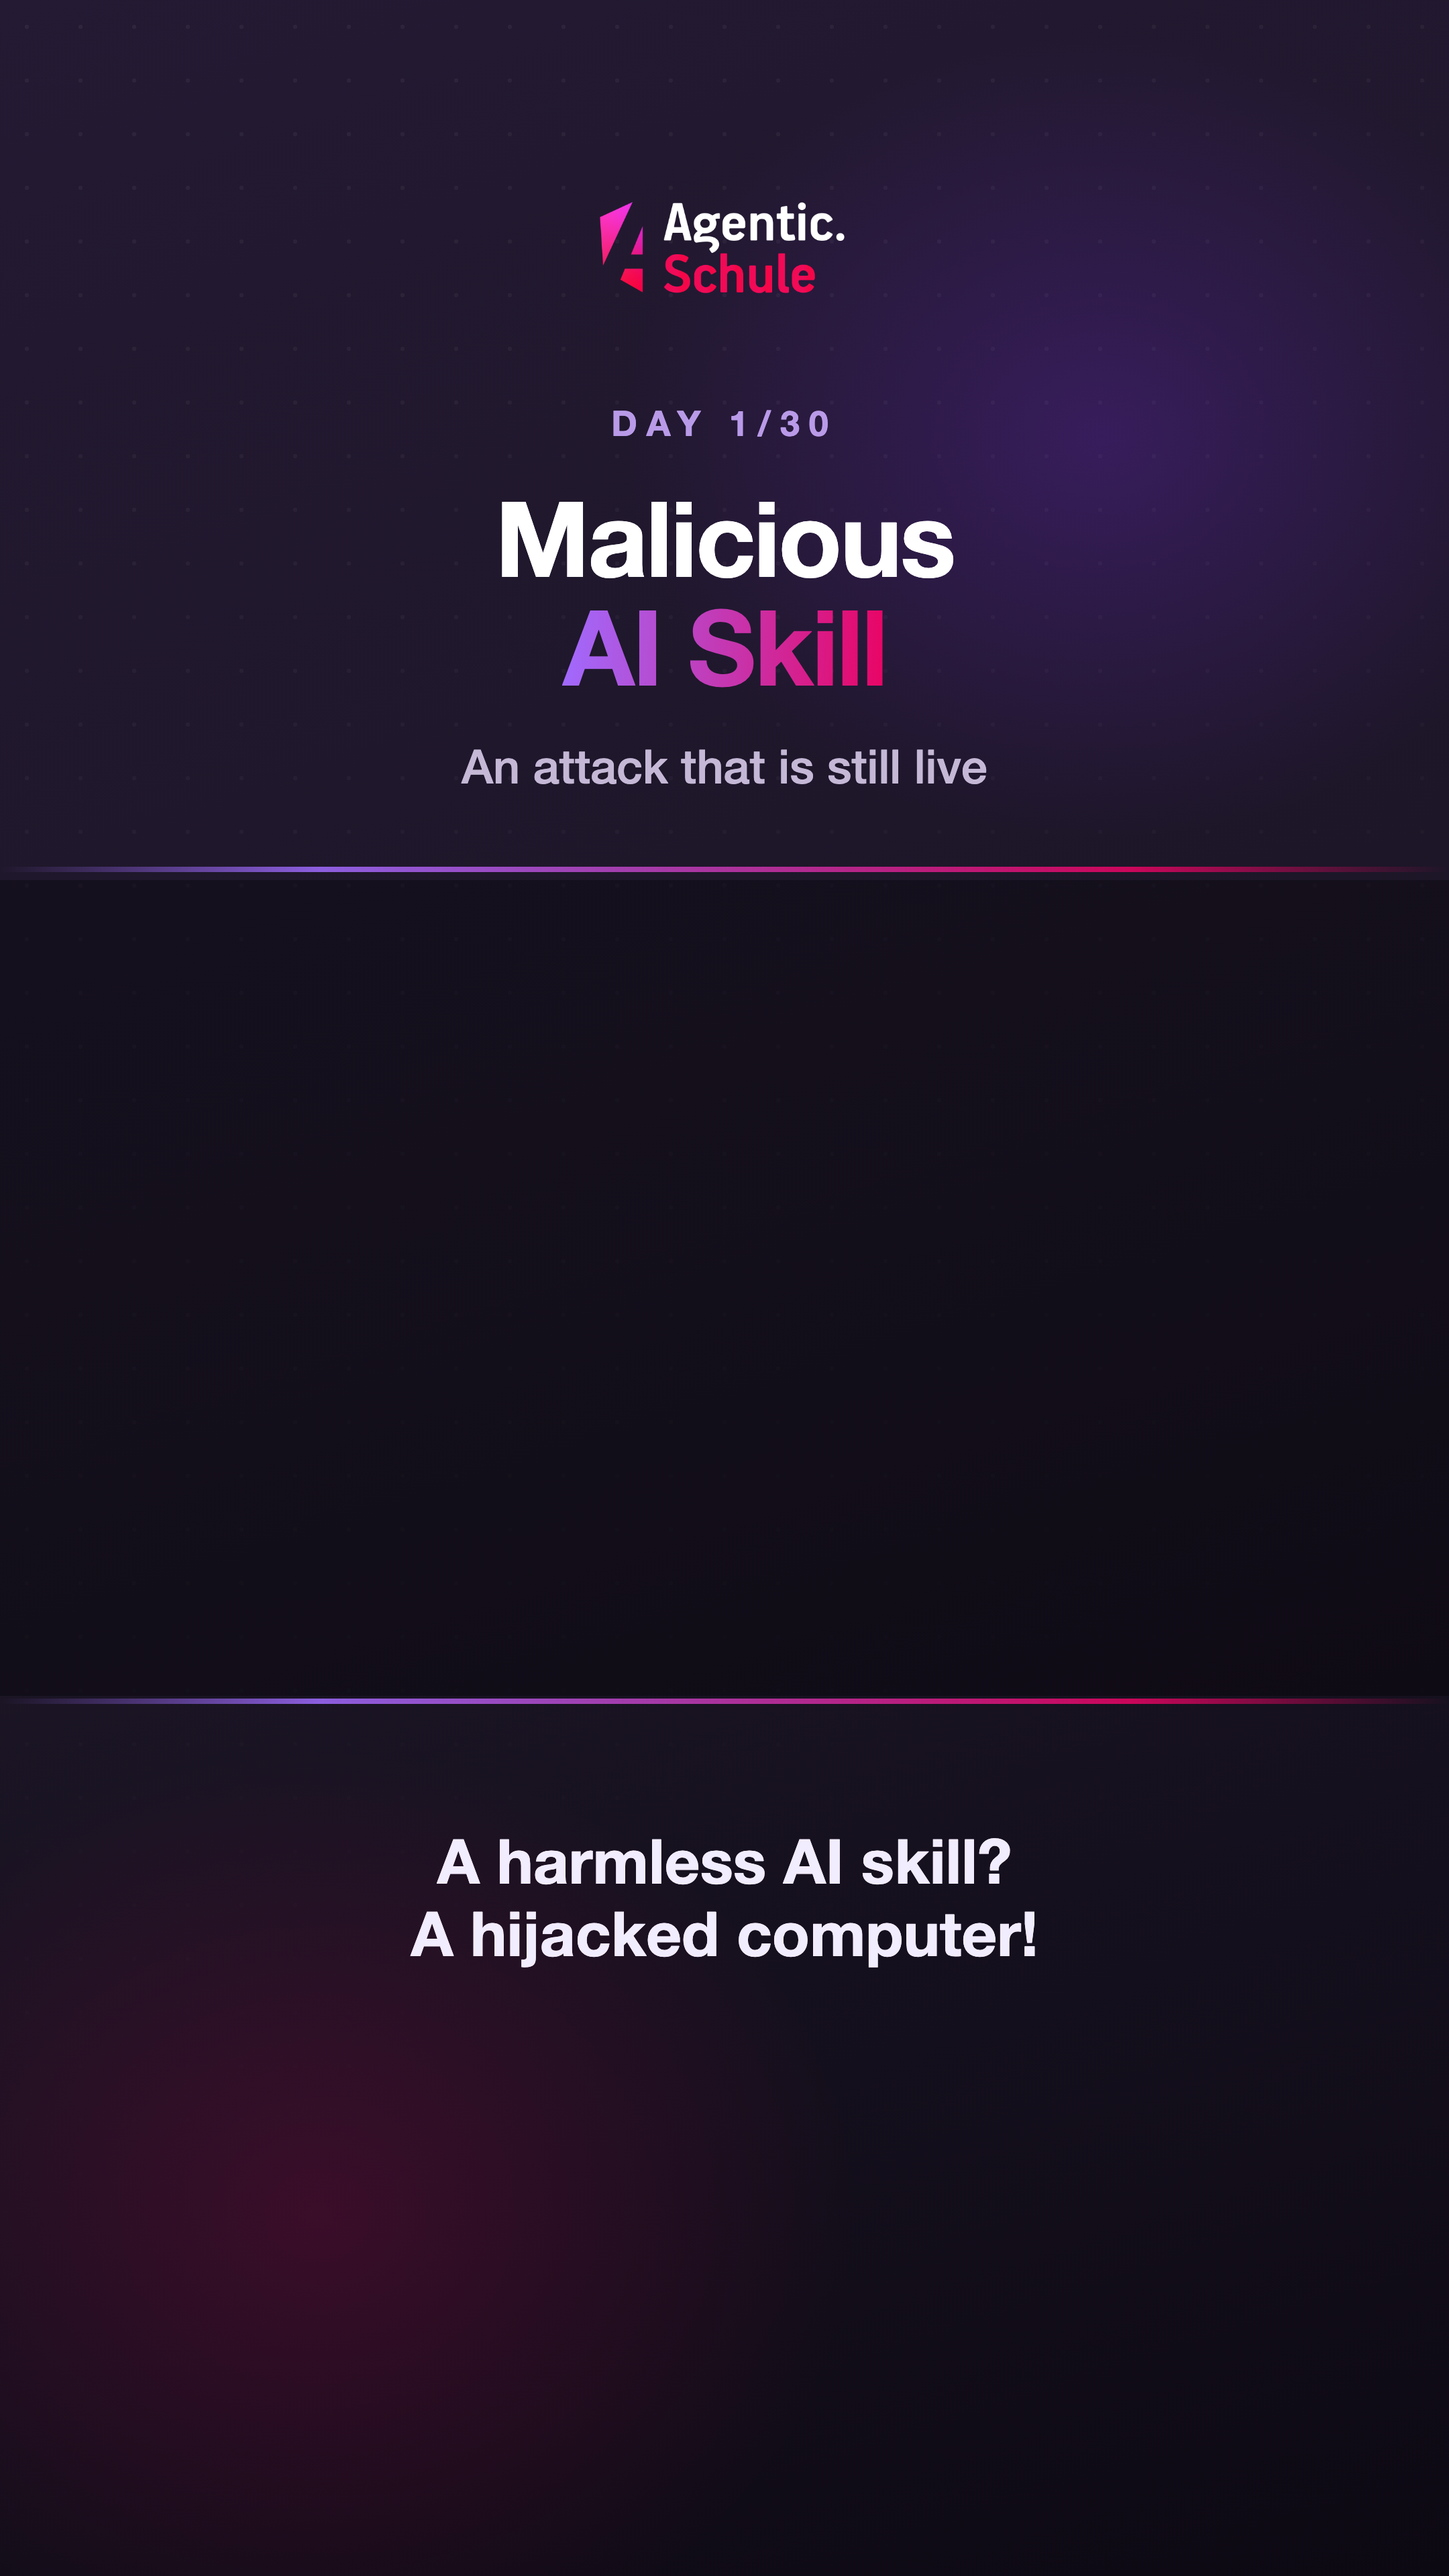
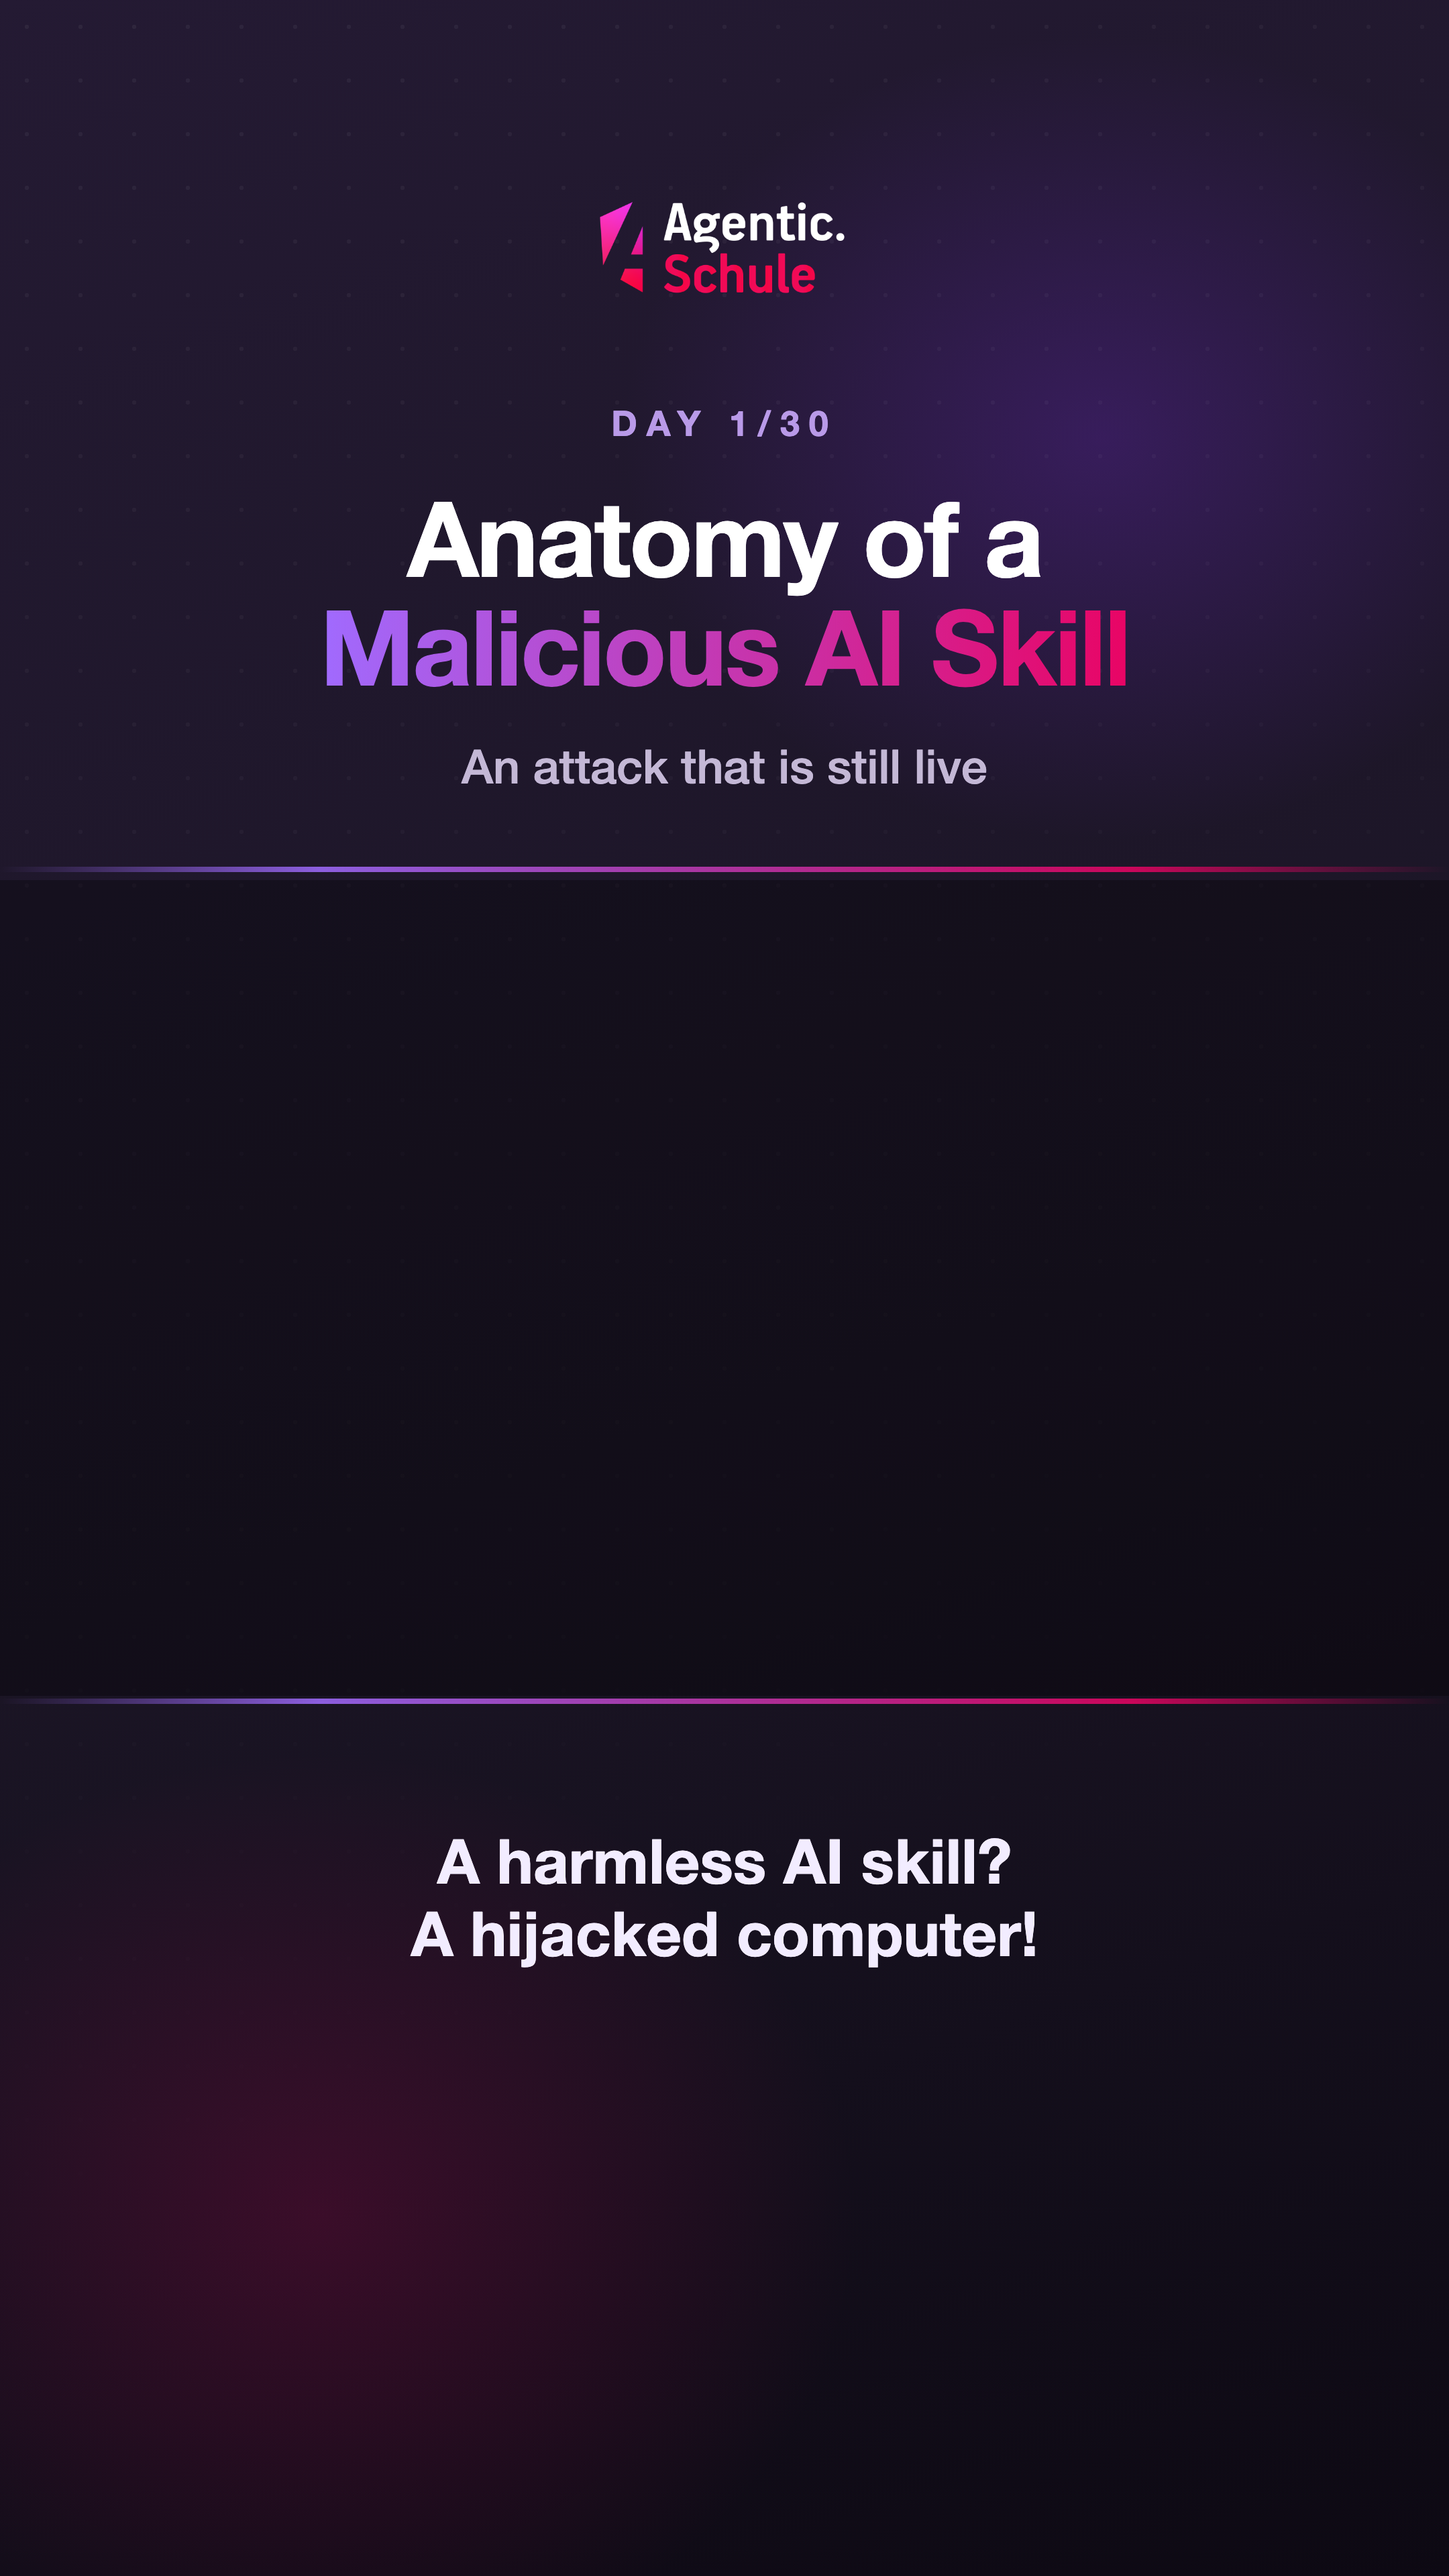
Reel Tag 1: volle Überschrift „Anatomy of a Malicious AI Skill" statt der Kurzform (#26)
Die Reel-Kurzform „Malicious AI Skill" war als Titel zu flach. Der Reel-Header
trägt jetzt denselben vollen, tragenden Titel wie Artikel und Lese-Banner.

Changed region(s): [[0.2171, 0.1875, 0.7755, 0.2812]]

diff --git a/blog/2026-09-boeswillige-skills-EN/header-reel.src.html b/blog/2026-09-boeswillige-skills-EN/header-reel.src.html
@@ -40,7 +40,7 @@
   <img class="logo" src="logo-agentic-schule.png" alt="agentic.schule">
   <div class="top">
     <div class="kicker">Day 1/30</div>
-    <h1>Malicious<br><span class="accent">AI Skill</span></h1>
+    <h1>Anatomy of a<br><span class="accent">Malicious AI Skill</span></h1>
     <div class="sub">An attack that is still live</div>
   </div>
   <div class="edge t"></div>
